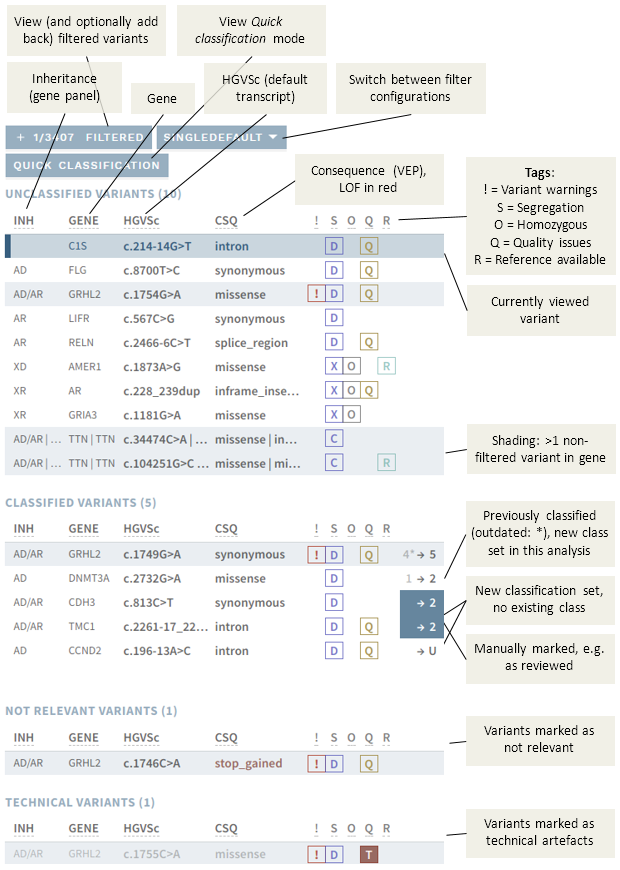
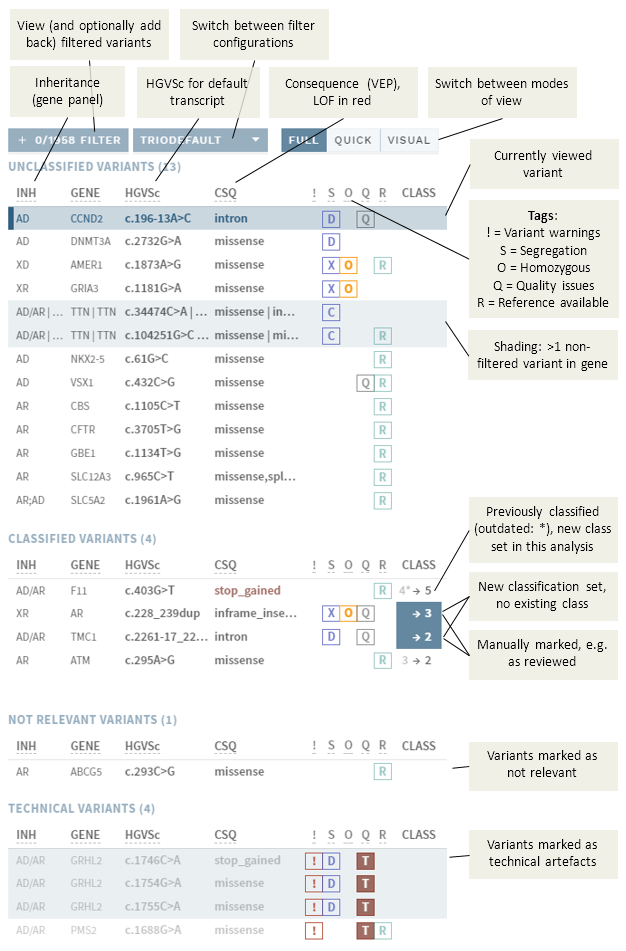
Updated docs for LA-1351; !279

diff --git a/docs/.vuepress/config.js b/docs/.vuepress/config.js
@@ -50,19 +50,14 @@ module.exports = {
                     collapsable: false,
                     children: [
                         '/manual/classification-page',
-                        '/manual/filtered-variants',
-                        '/manual/worklog',
                         '/manual/top-bar',
+                        '/manual/worklog',
                         '/manual/side-bar',
+                        '/manual/filtered-variants',
                         '/manual/evidence-sections',
-                        '/manual/classification-section'
-                    ]
-                },
-                {
-                    title: 'VISUALISATION page',
-                    collapsable: false,
-                    children: [
-                        '/manual/visualisation-page'
+                        '/manual/classification-section',
+                        '/manual/quick-classification',
+                        '/manual/visual'
                     ]
                 },
                 {

diff --git a/docs/manual/classification-page.md b/docs/manual/classification-page.md
@@ -6,25 +6,29 @@ title: Classification page
 
 [[toc]]
 
-The CLASSIFICATION page contains all annotation, as well as tools for interpretation and classification of each variant. Navigate to this page by using the button in the left corner of the top bar (if no warnings are present, you will start on this page automatically):
+The CLASSIFICATION page contains all annotation, as well as tools for visualising, interpreting and classifying each variant. Navigate to this page by using the button in the left corner of the top bar (if no warnings are present, you will start on this page automatically):
 
 <div style="text-indent: 4%;"><img src="./img/nav_classification_btn.png"></div>
+<br>
 
-## Sections on the CLASSIFICATION page
+## Overview 
 
-Different information is placed in separate parts or sections (shown here in collapsed mode, see  
-[Use collapsing ...](/manual/classification-page.html#use-collapsing-for-overview-and-marking-sections-as-done)):
+This page has three main parts (go to links for further details), a top bar, a side bar and the main content: 
 
-<div style="text-indent: 4%;"><img src="./img/classification_sections.png"></div>
+<div style="text-indent: 4%;"><img src="./img/classification_overview.png"></div>
+<br>
 
-The different parts are described in more detail in separate pages in this manual:
-
-  - [Filtered variants](/manual/filtered-variants.html): View and optionally add back variants that have been removed from view.
-  - [Work log](/manual/worklog.html): System and user messages related to current analysis/interpretation.  
-  - [Top bar](/manual/top-bar.html): Info and actions.
-  - [Side bar](/manual/side-bar.html): Variant list with tags and quick classification.
-  - [Evidence sections](/manual/evidence-sections.html): Evaluate annotation and studies.
-  - [Classification section](/manual/classification-section.html): Summarise and set ACMG criteria and classification.
+- [Top bar](/manual/top-bar.html): 
+  - Basic information and actions related to an analysis and/or selected variant.
+  - Access the [work log](/manual/worklog.html), which contains system and user messages related to current analysis/interpretation.  
+- [Side bar](/manual/side-bar.html) (ANALYSES only). : 
+  - Variant list with tags. 
+  - Review [filtered variants](/manual/filtered-variants.html).
+  - Switch between FULL, QUICK and VISUAL modes (see below).
+- Main content. This has three different modes: 
+  - FULL mode (default): Includes [Evidence sections](/manual/evidence-sections.html), where you review and add evidence, and a [Classification section](/manual/classification-section.html), where you summarize findings and set a classification.
+  - [QUICK mode](/manual/quick-classification.md): An expanded side bar where you can more quickly set a classification or mark variants in a list.
+  - [VISUAL mode](/manual/visual.md): Visualize variants, bam files and tracks, and quickly mark variants as TECHNICAL.
 
 
 ## Start an analysis or interpretation
@@ -91,13 +95,14 @@ Attachments added this way are available (through thumbnails) in the CLASSIFICAT
 
 ## Example classification workflows
 
-Recommended workflows for each variant on the CLASSIFICATION page, after clicking the `START …` button in the top bar:
+Example workflows for full classification of variants on the CLASSIFICATION page, after clicking the `START …` button in the top bar:
 
-### Analyse new variants (no previous interpretation)
+### Analyze new variants (no previous interpretation)
 
 1.  Review the information in the [QUALITY](/manual/evidence-sections.html#quality) (ANALYSES workflow only), [FREQUENCY](/manual/evidence-sections.html#frequency), [EXTERNAL](/manual/evidence-sections.html#external) and [PREDICTION](/manual/evidence-sections.html#prediction) sections, add missing information and provide comments specific to each section when relevant.
 
-    a.  (Optional; in ANALYSES workflow): Clear analysis warnings using the [work log](/manual/top-bar.html#work-log).
+    a.  (Optional; in ANALYSES workflow): Review aligned raw data and genomic context in [VISUAL mode](/manual/visual.md) 
+    b.  (Optional; in ANALYSES workflow): Clear analysis warnings using the [work log](/manual/top-bar.html#work-log).
 
 2.  Evaluate the retrieved references and any references you add yourself in the [REFERENCES](/manual/evidence-sections.html#references) section.
 

diff --git a/docs/manual/side-bar.md b/docs/manual/side-bar.md
@@ -2,7 +2,7 @@
 title: Side bar
 ---
 
-# Side bar: Variant list and quick classification
+# Side bar: Variant list, sorting and tags
 
 [[toc]]
 
@@ -14,11 +14,18 @@ Names (variant HGVSc and gene) and inheritance is displayed as specified by the 
 
 ## Buttons
 
+The side bar has several buttons on the top of the variant list: 
+
+<div style="text-indent: 4%;"><img src="./img/sidebar_buttons.png"></div>
+<br>
+
 Button  | Explanation | More information
 :---  | :---  | :---
 `FILTERED`  | View and optionally add back filtered variants. | [Filtered variants](/manual/filtered-variants.md)
-[Drop-down menu]  | Switch between filter configurations (pre-defined)  | Filtered variants](/manual/filtered-variants.md)
-`QUICK CLASSIFICATION`  | System and user messages related to current analysis/interpretation. |  [Quick classification](#quick-classification)
+[Drop-down menu]  | Switch between filter configurations (pre-defined)  | [Filtered variants](/manual/filtered-variants.md)
+`FULL`  | Switch to Full (default; detailed) classification. |  [Evidence sections](/manual/evidence-sections.html), [Classification section](/manual/classification-section.html)
+`QUICK`  | Switch to Quick classification mode. |  [Quick mode](/manual/quick-classification.md)
+`VISUAL`  | Switch to Visual mode.  | [Visual mode](/manual/visual.md)
 
 ## Variant tags
 
@@ -49,24 +56,9 @@ If applicable, variants in the variant list are tagged with:
 Hold the mouse cursor over a tag to see the full label.
 :::
 
-## Quick classification
-
-Instead of performing a full classification, you may instead choose the Quick classification mode by pressing the button at the top of the variant list: 
-
-<div style="text-indent: 4%;"><img src="./img/quick_classification_btn.png"></div>
-
-This feature is particularly well suited for workflows with large gene panels and many variants. The Quick classification view gives a summary of the most important information necessary for [marking variants](/manual/evidence-sections.html#mark-as-verified-technical-not-relevant) as `TECHNICAL` or `NOT RELEVANT`, or [classifying](/manual/classification-section.html#set-variant-class) as `CLASS U` or `CLASS 2`, and gives you buttons to perform those actions directly:
-
-<div style="text-indent: 4%;"><img src="./img/quick_classification.png"></div>
-<br>
-
-Clicking one of these buttons moves the variant down to the respective section in the sidebar. If applicable, add a comment before moving to the next variant; this will be added to the comment field on the CLASSIFICATION page corresponding to the column header (e.g. ANALYSIS SPECIFIC).
-
-When you are done, and ready to do a more thourough interpretation of any remaining variants, click the `FULL CLASSIFICATION` button at the top of the variant list (see also [Evidence sections](/manual/evidence-sections.html) and [Classification section](/manual/classification-section.html))
-
 ## Sorting
 
-The default sorting of this list is Inheritance – Gene – HGVSc. You can change the sorting by clicking on any of the list headers (also in [Quick classification](#quick-classification)):
+The default sorting of this list is Inheritance – Gene – HGVSc. You can change the sorting by clicking on any of the list headers (also in [Quick classification](/manual/quick-classification.md)):
 
   - First click sorts descending (↓)
   - Second click sorts ascending (↑)

diff --git a/docs/manual/README.md b/docs/manual/README.md
@@ -1,6 +1,8 @@
 # Navigating ella
 
-The user interface in *ella* is organised in different pages. For in-depth descriptions, go to the referenced pages:
+The user interface in *ella* is organised in different pages, which are reached by choosing an analysis/interpretation or through buttons/links in the top bar. 
+
+For in-depth descriptions, go to the referenced pages:
 
 <hr>
 
@@ -32,22 +34,16 @@ The user interface in *ella* is organised in different pages. For in-depth descr
 <div style="text-indent: 4%;"><img src="./img/nav_classification_btn.png"></div>
 
 - [Classification page](/manual/classification-page.html): Overview and basics.
-- [Filtered variants](/manual/filtered-variants.html): View and optionally add back variants that have been removed from view.
-- [Work log](/manual/worklog.html): System and user messages related to current analysis/interpretation.  
 - [Top bar](/manual/top-bar.html): Info and actions.
-- [Side bar](/manual/side-bar.html): Variant list and tags, and quick classification.
-- [Sections for evidence](/manual/evidence-sections.html): Evaluate annotation and studies.
-- [Section for classification](/manual/classification-section.html): Summarise and set ACMG criteria and classification.
-	  
-<hr>
-
-**VISUALISATION page**  
-*Visualise variants, bam files and tracks*
-
-<div style="text-indent: 4%;"><img src="./img/nav_visualisation_btn.png"></div>
-
-- [Visualisation page](/manual/visualisation-page.html)
-
+    - [Work log](/manual/worklog.html): System and user messages related to current analysis/interpretation.
+- [Side bar](/manual/side-bar.html): Variant list with tags.
+    - [Filtered variants](/manual/filtered-variants.html): Review and add back filtered variants.
+- Full mode (default): 
+    - [Sections for evidence](/manual/evidence-sections.html): Evaluate annotation and studies.
+    - [Section for classification](/manual/classification-section.html): Summarise and set ACMG criteria and classification.
+- [Quick mode](/manual/quick-classification.md): Quickly classifiy or mark variants in a list.
+- [Visual mode](/manual/visual.html): Visualize variants, bam files and tracks.
+  	  
 <hr>	
 
 **REPORT page**  

diff --git a/docs/manual/visual.md b/docs/manual/visual.md
@@ -1,0 +1,40 @@
+---
+title: Visual mode
+---
+
+# Visual mode
+
+[[toc]]
+
+Pushing the `VISUAL` button (available in ANALYSIS mode only) in the side bar opens the VISUAL mode:
+
+<div style="text-indent: 4%;"><img src="./img/sidebar_modes_visual.png"></div>
+<br>
+
+This mode features an [integrated version](https://igv.org/doc/doc.html) of [Integrative Genomics Viewer (IGV)](http://software.broadinstitute.org/software/igv/):
+
+<div style="text-indent: 4%;"><img src="./img/visual.png"></div>
+
+With IGV, you can visualize all variants in an analysis, along with customisable tracks at three different levels: global, user group or analysis.
+
+## Global tracks
+
+Global tracks are available to all users. These currently include: 
+
+- `REFGENE`: Transcripts from RefGene.
+- `GENEPANEL`: Regions covered by the current gene panel.
+- `VARIANTS`: All variants in the same sample (analysis) _after_ filtering.
+- `CLASSIFICATIONS`: All existing classifications present in the database.
+	
+## Your tracks (user group)
+
+Your tracks are specific to your user group in *ella*. These typically include data from external sources and references.
+	
+## Analysis tracks
+
+Analysis tracks are specific to the analysis (depending on configuration). These may include:
+
+- `BAM` files: Raw alignments (HTS data only), split by family members if relevant
+- `VCF`: All variants called in the VCF file (HTS data only, within gene panel, no filtering)
+- `CNV`: Called CNVs (HTS data only)
+

diff --git a/docs/manual/quick-classification.md b/docs/manual/quick-classification.md
@@ -1,0 +1,20 @@
+---
+title: Quick mode
+---
+
+# Quick classification mode
+
+[[toc]]
+
+Instead of performing a full classification, you may instead choose the Quick classification mode by pressing the `QUICK` button at the top of the variant list in the side bar: 
+
+<div style="text-indent: 4%;"><img src="./img/sidebar_modes_quick.png"></div>
+
+This feature is particularly well suited for workflows with large gene panels and many variants. The Quick classification view gives a summary of the most important information necessary for [marking variants](/manual/evidence-sections.html#mark-as-verified-technical-not-relevant) as `TECHNICAL` or `NOT RELEVANT`, or [classifying](/manual/classification-section.html#set-variant-class) as `CLASS U` or `CLASS 2`, and gives you buttons to perform those actions directly:
+
+<div style="text-indent: 4%;"><img src="./img/quick_classification.png"></div>
+<br>
+
+Clicking one of these buttons moves the variant down to the respective section in the sidebar. If applicable, add a comment before moving to the next variant; this will be added to the comment field on the CLASSIFICATION page corresponding to the column header (e.g. ANALYSIS SPECIFIC).
+
+When you are done, and ready to do a more thourough interpretation of any remaining variants, click the `FULL` button at the top of the variant list (see also [Evidence sections](/manual/evidence-sections.html) and [Classification section](/manual/classification-section.html)).

diff --git a/docs/concepts/filtering.md b/docs/concepts/filtering.md
@@ -325,5 +325,5 @@ This filter has no configuration.
 For large datasets, it is advisable to apply a special pre-filter that removes variants that are *certain* to be benign (e.g. population frequency above 0.05) before importing new data, to reduce the loading time when opening an analysis. 
 
 ::: warning NOTE
-Variants removed in this way (before import) will not be visible in [FILTERED variants](/manual/filtered-variants.html#filtered-variants) in *ella*. However, *ella* can be configured to include a `VCF` track on the [VISUALISATION page](/manual/visualisation-page.html#analysis-tracks), where these variants would be included.  
+Variants removed in this way (before import) will not be visible in [FILTERED variants](/manual/filtered-variants.html#filtered-variants) in *ella*. However, *ella* can be configured to include a `VCF` track in the [VISUAL mode](/manual/visual.html#analysis-tracks), where these variants would be included.  
 :::

diff --git a/docs/manual/evidence-sections.md b/docs/manual/evidence-sections.md
@@ -6,6 +6,13 @@ title: Evidence sections
 
 [[toc]]
 
+In FULL (default) mode, the main view of the CLASSIFICATION page contains a number of different sections (shown here as [collapsed](http://manual/classification-page.html#use-collapsing-for-overview-and-marking-sections-as-done)):  
+
+<div style="text-indent: 4%;"><img src="./img/classification_sections.png"></div>
+<br>
+
+The different sections presenting annotation evidence are described below, see the separate page for the [Classification section](/manual/classification-section.md).
+
 ## Analysis specific (ANALYSES only)
 
 This section is specific to the current sample (analysis) and displays indicators of the quality of the variant calling (HTS data, ANALYSES mode only).

diff --git a/docs/manual/choosing-sample-variant.md b/docs/manual/choosing-sample-variant.md
@@ -9,6 +9,12 @@ title: Choosing a sample or variant
 The first page you see after logging in is the OVERVIEW page. You can always navigate to this page using the link in the top right corner:
 
 <div style="text-indent: 4%;"><img src="./img/overview_btn.png"></div>
+<br>
+
+This page also links to the current documentation (you can also reach these by going to [allel.es/docs](http://allel.es/docs)): 
+
+<div style="text-indent: 4%;"><img src="./img/documentation_btn.png"></div>
+
 
 ## Select analysis or variant from the worklist
 

diff --git a/docs/releasenotes/README.md b/docs/releasenotes/README.md
@@ -18,6 +18,11 @@ sidebar: auto
 
 ### Additions and fixes
 - Changed naming of ACMG criteria with modified strength to ClinGen's recommendations (e.g. PM1_Strong instead of PSxPM1). 
+- Renamed/added buttons in side bar:
+    - `FULL` 
+    - `QUICK` (renamed from QUICK CLASSIFICATION)
+    - `VISUAL` (renamed from VISUALIZATION; button moved from top bar.
+- Added function to mark as `TECHNICAL` (button and comment) in VISUAL mode
 
 
 ## 1.4.1

diff --git a/docs/README.md b/docs/README.md
@@ -5,7 +5,7 @@ sidebar: false
 <div style="text-align: center;padding-top: 50px;padding-bottom: 50px">
 	<img width="250px;" src="./logo_blue.svg">
 	<div style="font-size: 280%;">documentation</div>
-	<div style="font-size: 80%;">v1.4.1 | 15.04.2019</div>
+	<div style="font-size: 80%;">v1.5 | 09.05.2019</div>
 </div>
 
 - [User interface](/manual/): Guide to the user interface.
